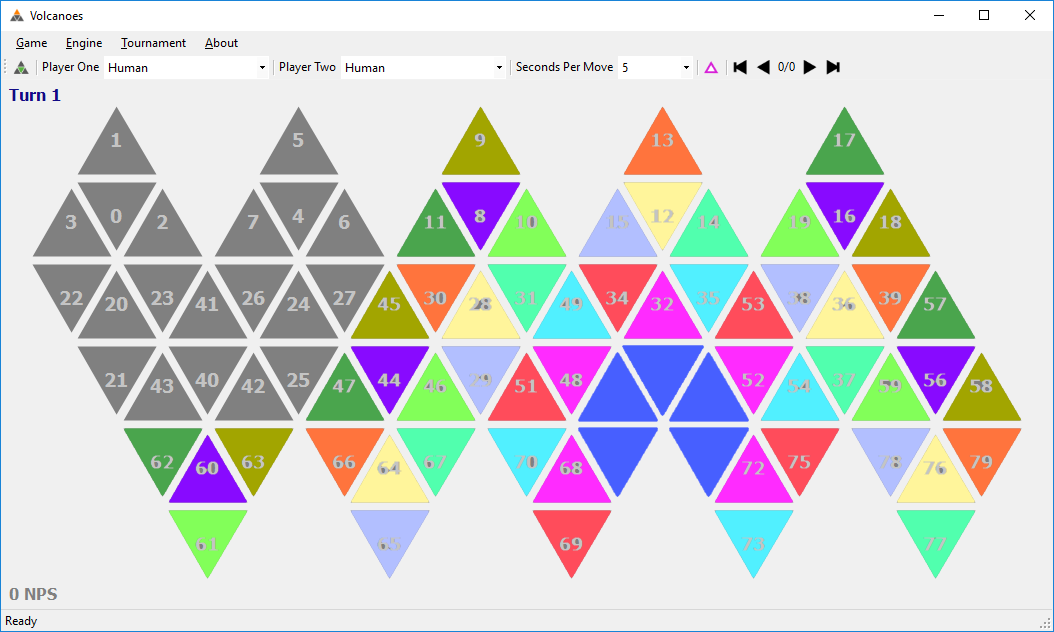
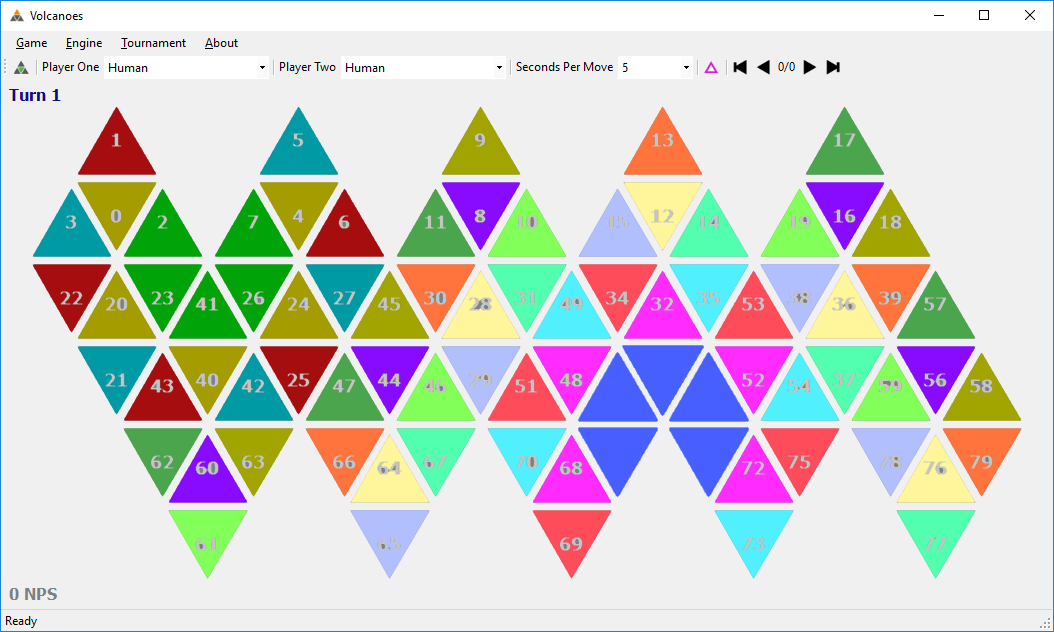
Draw rotation buttons

Changed region(s): [[0.0304, 0.1804, 0.3643, 0.6915]]

diff --git a/Volcanoes/Interface/GameGraphics.cs b/Volcanoes/Interface/GameGraphics.cs
@@ -2,6 +2,7 @@
 using System.Collections.Generic;
 using System.Drawing;
 using System.Drawing.Drawing2D;
+using System.Drawing.Imaging;
 using System.Linq;
 using System.Text;
 using System.Threading.Tasks;
@@ -13,9 +14,10 @@ namespace Volcano.Interface
     class GameGraphics
     {
         private Panel _panel;
+        private Size _size;
         private List<GameTile> _tiles;
-
-        private int[][] rotationLoops;
+        private List<GameRotation> _rotations;
+        
         private int[] boardIndexFromTileIndex;
 
         public GameGraphicsSettings GraphicsSettings { get; set; }
@@ -23,17 +25,32 @@ namespace Volcano.Interface
         public GameGraphics(Panel panel, GameGraphicsSettings settings)
         {
             _panel = panel;
+            _size = new Size(0, 0);
             GraphicsSettings = settings;
 
             InitializeTiles();
+            InitializeRotations();
+            InitializeRedirects();
+        }
 
+        private void InitializeRedirects()
+        {
             boardIndexFromTileIndex = new int[80];
             for (int i = 0; i < 80; i++)
             {
                 boardIndexFromTileIndex[i] = i;
             }
+        }
 
-            rotationLoops = new int[16][];
+        private void InitializeRotations()
+        {
+            _rotations = new List<GameRotation>();
+
+            int radius = _tiles[0].BoundingBox.Width / 5;
+            int yOffset = _tiles[0].BoundingBox.Height * 2 / 3;
+            int yOffsetInverted = _tiles[0].BoundingBox.Height - yOffset;
+
+            int[][] rotationLoops = new int[16][];
             rotationLoops[0] = new int[] { 71, 50, 33, 55, 74 };
             rotationLoops[1] = new int[] { 68, 48, 32, 52, 72 };
             rotationLoops[2] = new int[] { 69, 51, 34, 53, 75 };
@@ -50,6 +67,25 @@ namespace Volcano.Interface
             rotationLoops[13] = new int[] { 21, 42, 27, 5, 3 };
             rotationLoops[14] = new int[] { 40, 24, 4, 0, 20 };
             rotationLoops[15] = new int[] { 41, 26, 7, 2, 23 };
+
+            int x = _tiles[74].Location.X - GraphicsSettings.TileHorizontalSpacing;
+            int y = _tiles[74].Location.Y + yOffset;
+            _rotations.Add(new GameRotation
+            {
+                Location = new Point(x - radius, y - radius),
+                BoundingBox = new Rectangle(x - radius, y - radius, radius * 2, radius * 2),
+                RotationLoops = rotationLoops,
+                Clockwise = false
+            });
+            x = _tiles[7].Location.X - GraphicsSettings.TileHorizontalSpacing;
+            y = _tiles[7].Location.Y + yOffsetInverted;
+            _rotations.Add(new GameRotation
+            {
+                Location = new Point(x - radius, y - radius),
+                BoundingBox = new Rectangle(x - radius, y - radius, radius * 2, radius * 2),
+                RotationLoops = rotationLoops,
+                Clockwise = true
+            });
         }
 
         private void InitializeTiles()
@@ -147,8 +183,8 @@ namespace Volcano.Interface
                 }
             }
         }
-
-        public void RotateBoard()
+        
+        private void RotateBoard(int[][] rotationLoops)
         {
             int[] redirects = new int[80];
 
@@ -170,8 +206,28 @@ namespace Volcano.Interface
 
         public void Resize()
         {
-            GraphicsSettings.UpdateBestTileWidth(_panel.Size);
-            InitializeTiles();
+            if (_size != _panel.Size)
+            {
+                GraphicsSettings.UpdateBestTileWidth(_panel.Size);
+                InitializeTiles();
+                InitializeRotations();
+
+                _size = _panel.Size;
+            }
+        }
+
+        public void Click(Point mouseLocation)
+        {
+            Point mouse = GetOffsetPoint(mouseLocation);
+
+            // See if they clicked a rotation button
+            for (int i = 0; i < _rotations.Count; i++)
+            {
+                if (_rotations[i].IsWithinCircle(mouse))
+                {
+                    RotateBoard(_rotations[i].RotationLoops);
+                }
+            }
         }
 
         public void Draw(VolcanoGame game, Point mouseLocation, int moveNumber, bool highlightLastMove)
@@ -194,6 +250,8 @@ namespace Volcano.Interface
             int hoverTile = GetTileIndex(mouseLocation);
             Board gameState = reviewMode ? game.GetPreviousState(moveNumber) : game.CurrentState;
 
+            Point mouse = GetOffsetPoint(mouseLocation);
+
             int lastPlayIndex = GetTileIndexFromBoardIndex(game.MoveHistory.Count >= moveNumber && moveNumber - 1 >= 0 ? game.MoveHistory[moveNumber - 1] : -1);
 
             Color background = reviewMode ? GraphicsSettings.ReviewBackgroundColor : GraphicsSettings.BackgroundColor;
@@ -202,9 +260,30 @@ namespace Volcano.Interface
             using (Graphics g = Graphics.FromImage(b))
             {
                 g.SmoothingMode = SmoothingMode.AntiAlias;
+                g.CompositingQuality = CompositingQuality.HighQuality;
+                g.InterpolationMode = InterpolationMode.HighQualityBicubic;
 
                 g.Clear(background);
 
+                // Draw rotation buttons
+                for (int i = 0; i < _rotations.Count; i++)
+                {
+                    float opacity = 0.5f;
+                    if (_rotations[i].IsWithinCircle(mouse))
+                    {
+                        opacity = 1f;
+                    }
+
+                    ColorMatrix matrix = new ColorMatrix();
+                    matrix.Matrix33 = opacity;
+                    ImageAttributes attributes = new ImageAttributes();
+                    attributes.SetColorMatrix(matrix, ColorMatrixFlag.Default, ColorAdjustType.Bitmap);
+
+                    Bitmap image = _rotations[i].Clockwise ? Properties.Resources.rotate_clockwise: Properties.Resources.rotate_counter_clockwise;
+                    g.DrawImage(image, _rotations[i].BoundingBox, 0, 0, image.Width, image.Height, GraphicsUnit.Pixel, attributes);
+                }
+
+                // Draw tiles
                 for (int i = 0; i < 80; i++)
                 {
                     DrawTile(g, gameState, i, hoverTile, lastPlayIndex, highlightLastMove);

diff --git a/Volcanoes/GameForm.Designer.cs b/Volcanoes/GameForm.Designer.cs
@@ -80,8 +80,6 @@
             this.btnNavEnd = new System.Windows.Forms.ToolStripButton();
             this.saveFileDialog1 = new System.Windows.Forms.SaveFileDialog();
             this.openFileDialog1 = new System.Windows.Forms.OpenFileDialog();
-            this.rotateToolStripMenuItem = new System.Windows.Forms.ToolStripMenuItem();
-            this.toolStripSeparator9 = new System.Windows.Forms.ToolStripSeparator();
             this.toolStripContainer1.BottomToolStripPanel.SuspendLayout();
             this.toolStripContainer1.ContentPanel.SuspendLayout();
             this.toolStripContainer1.TopToolStripPanel.SuspendLayout();
@@ -276,9 +274,7 @@
             this.resetRulesToolStripMenuItem,
             this.toolStripSeparator8,
             this.exportThemeToolStripMenuItem,
-            this.resetThemeToolStripMenuItem,
-            this.toolStripSeparator9,
-            this.rotateToolStripMenuItem});
+            this.resetThemeToolStripMenuItem});
             this.dEBUGToolStripMenuItem.Name = "dEBUGToolStripMenuItem";
             this.dEBUGToolStripMenuItem.Size = new System.Drawing.Size(56, 20);
             this.dEBUGToolStripMenuItem.Text = "DEBUG";
@@ -510,18 +506,6 @@
             // 
             this.openFileDialog1.Filter = "Volcanoes Game Transcript|*.vgt";
             // 
-            // rotateToolStripMenuItem
-            // 
-            this.rotateToolStripMenuItem.Name = "rotateToolStripMenuItem";
-            this.rotateToolStripMenuItem.Size = new System.Drawing.Size(205, 22);
-            this.rotateToolStripMenuItem.Text = "Rotate";
-            this.rotateToolStripMenuItem.Click += new System.EventHandler(this.rotateToolStripMenuItem_Click);
-            // 
-            // toolStripSeparator9
-            // 
-            this.toolStripSeparator9.Name = "toolStripSeparator9";
-            this.toolStripSeparator9.Size = new System.Drawing.Size(202, 6);
-            // 
             // GameForm
             // 
             this.AutoScaleDimensions = new System.Drawing.SizeF(6F, 13F);
@@ -604,8 +588,6 @@
         private System.Windows.Forms.ToolStripMenuItem exportThemeToolStripMenuItem;
         private System.Windows.Forms.ToolStripMenuItem resetThemeToolStripMenuItem;
         private System.Windows.Forms.ToolStripSeparator toolStripSeparator8;
-        private System.Windows.Forms.ToolStripSeparator toolStripSeparator9;
-        private System.Windows.Forms.ToolStripMenuItem rotateToolStripMenuItem;
     }
 }
 

diff --git a/Volcanoes/Interface/GameRotation.cs b/Volcanoes/Interface/GameRotation.cs
@@ -1,0 +1,37 @@
+using System;
+using System.Collections.Generic;
+using System.Drawing;
+using System.Drawing.Drawing2D;
+using System.Linq;
+using System.Text;
+using System.Threading.Tasks;
+
+namespace Volcano.Interface
+{
+    class GameRotation
+    {
+        public Point Location { get; set; }
+        public Rectangle BoundingBox { get; set; }
+        public GraphicsPath Path { get; set; }
+        public int[][] RotationLoops { get; set; }
+        public bool Clockwise { get; set; }
+
+        public Rectangle SmallerBox
+        {
+            get
+            {
+                int pixels = 2;
+                return new Rectangle(BoundingBox.X + pixels, BoundingBox.Y + pixels, Math.Max(2, BoundingBox.Width - pixels * 2), Math.Max(2, BoundingBox.Height - pixels * 2));
+            }
+        }
+        
+        public bool IsWithinCircle(Point point)
+        {
+            int radius = BoundingBox.Width / 2;
+            Point center = new Point(Location.X + radius, Location.Y + radius);
+            double distance = Math.Sqrt(Math.Pow(point.X - center.X, 2) + Math.Pow(point.Y - center.Y, 2));
+
+            return distance <= radius;
+        }
+    }
+}

diff --git a/Volcanoes/GameForm.cs b/Volcanoes/GameForm.cs
@@ -95,13 +95,14 @@ namespace Volcano
 
         private void gamePanel_Click(object sender, EventArgs e)
         {
+            Point mouse = gamePanel.PointToClient(Cursor.Position);
             bool reviewMode = game.MoveHistory.Count > 0 && transcriptMove != game.MoveHistory.Count - 1;
             if (game.CurrentState.State == GameState.InProgress && !game.Thinking && !reviewMode)
             {
-                Point mouse = gamePanel.PointToClient(Cursor.Position);
                 int tileIndex = graphics.GetBoardIndex(mouse);
                 game.MakeMove(tileIndex);
             }
+            graphics.Click(mouse);
         }
 
         private void btnNewGame_Click(object sender, EventArgs e)
@@ -388,11 +389,6 @@ namespace Volcano
                     e.Cancel = true;
                 }
             }
-        }
-
-        private void rotateToolStripMenuItem_Click(object sender, EventArgs e)
-        {
-            graphics.RotateBoard();
         }
     }
 }

diff --git a/Volcanoes/Properties/Resources.Designer.cs b/Volcanoes/Properties/Resources.Designer.cs
@@ -59,5 +59,25 @@ namespace Volcano.Properties {
                 resourceCulture = value;
             }
         }
+        
+        /// <summary>
+        ///   Looks up a localized resource of type System.Drawing.Bitmap.
+        /// </summary>
+        internal static System.Drawing.Bitmap rotate_clockwise {
+            get {
+                object obj = ResourceManager.GetObject("rotate_clockwise", resourceCulture);
+                return ((System.Drawing.Bitmap)(obj));
+            }
+        }
+        
+        /// <summary>
+        ///   Looks up a localized resource of type System.Drawing.Bitmap.
+        /// </summary>
+        internal static System.Drawing.Bitmap rotate_counter_clockwise {
+            get {
+                object obj = ResourceManager.GetObject("rotate_counter_clockwise", resourceCulture);
+                return ((System.Drawing.Bitmap)(obj));
+            }
+        }
     }
 }

diff --git a/Volcanoes/Interface/GameGraphicsSettings.cs b/Volcanoes/Interface/GameGraphicsSettings.cs
@@ -42,7 +42,7 @@ namespace Volcano.Interface
         public int IdealPanelHeight { get { return TileHeight * 6 + TileHorizontalSpacing * 4 + TileSpacing * 7 + BoardSpacing * 2; } }
 
         public bool ShowTileNames { get; set; } = false;
-        public bool ShowTileIndexes { get; set; } = false;
+        public bool ShowTileIndexes { get; set; } = true;
 
         private GameGraphicsSettings()
         {
